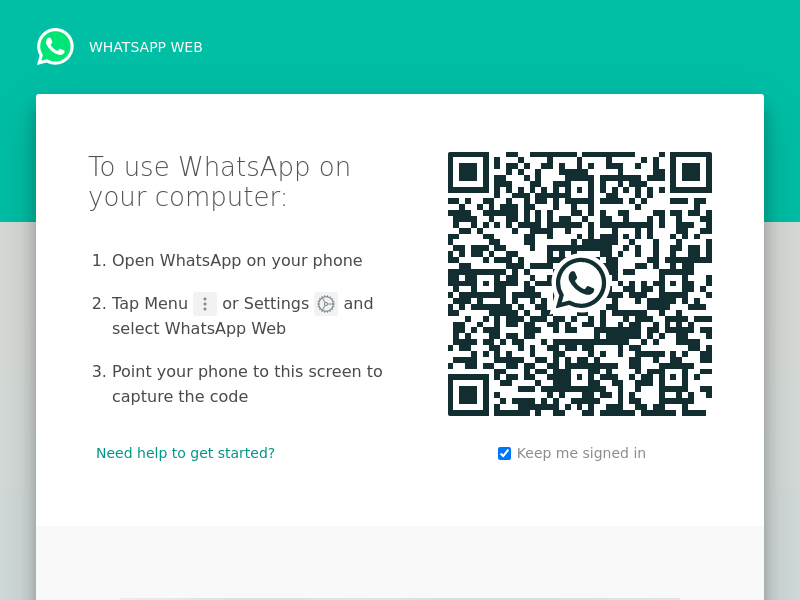
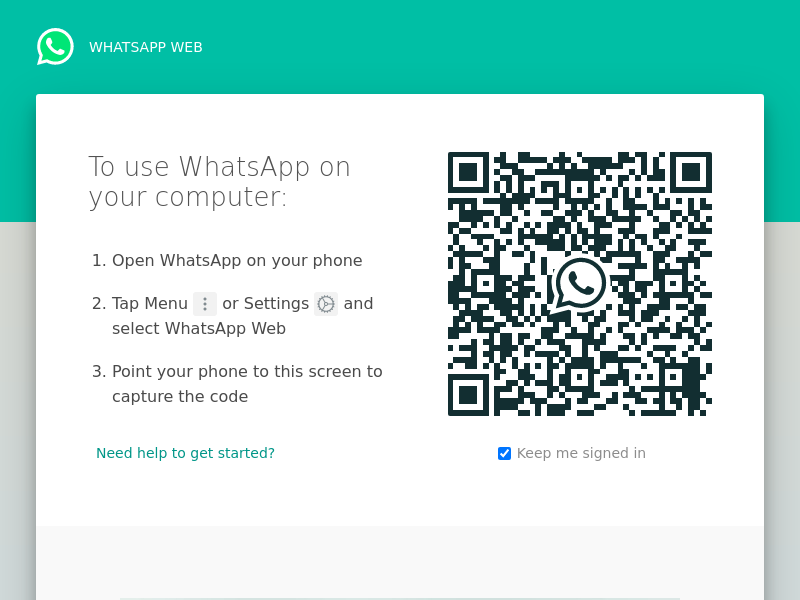
Rewound to commit d109d110cae49b926295202987c4607df77e1687 + 0 edits

Changed region(s): [[0.5625, 0.24, 0.9062, 0.72]]

diff --git a/example.js b/example.js
@@ -1,43 +1,20 @@
 const { Client } = require('whatsapp-web.js');
+const client = new Client({ puppeteer : { args: ['--no-sandbox'] } });
 const express = require('express');
 const app = express();
 const http = require('http');
 const url = require('url');
 const ws = require('ws');
-const fs = require('fs');
 
 // we need to create our own http server so express and ws can share it.
 const server = http.createServer(app);
 // pass the created server to ws
 const wss = new ws.Server({ server });
 
-const SESSION_FILE_PATH = __dirname + '/public/session.json';
-let sessionCfg;
-if (fs.existsSync(SESSION_FILE_PATH)) {
-  sessionCfg = require(SESSION_FILE_PATH);
-}
-
-const client = new Client({ puppeteer : { args: ['--no-sandbox'] }, session: sessionCfg });
-
-client.on('authenticated', (session) => {
-  console.log('AUTHENTICATED', session);
-  sessionCfg=session;
-  fs.writeFile(SESSION_FILE_PATH, JSON.stringify(session), function (err) {
-    if (err) {
-      console.error(err);
-    }
-  });
-});
-
-client.on('auth_failure', msg => {
-  // Fired if session restore was unsuccessfull
-  console.error('AUTHENTICATION FAILURE', msg);
-});
-
 client.on('qr', (qr) => {
   // Generate and scan this code with your phone
   console.log('QR RECEIVED', qr);
-  client.pupPage.screenShot()
+  client.pupPage.screenshot({path: __dirname+'/public/qr.png'});
 });
 
 client.on('ready', () => {

diff --git a/view/scan.html b/view/scan.html
@@ -5,9 +5,6 @@
   </head>
   <body>
     This API uses Whatsapp Web Connection to connect to your phone<br>
-    <img id="qr">
-    <script>
-      document.getElementById('qr').src = window.location.href + '/qr';
-    </script>
+    <img src="/qr">
   </body>
 </html>
